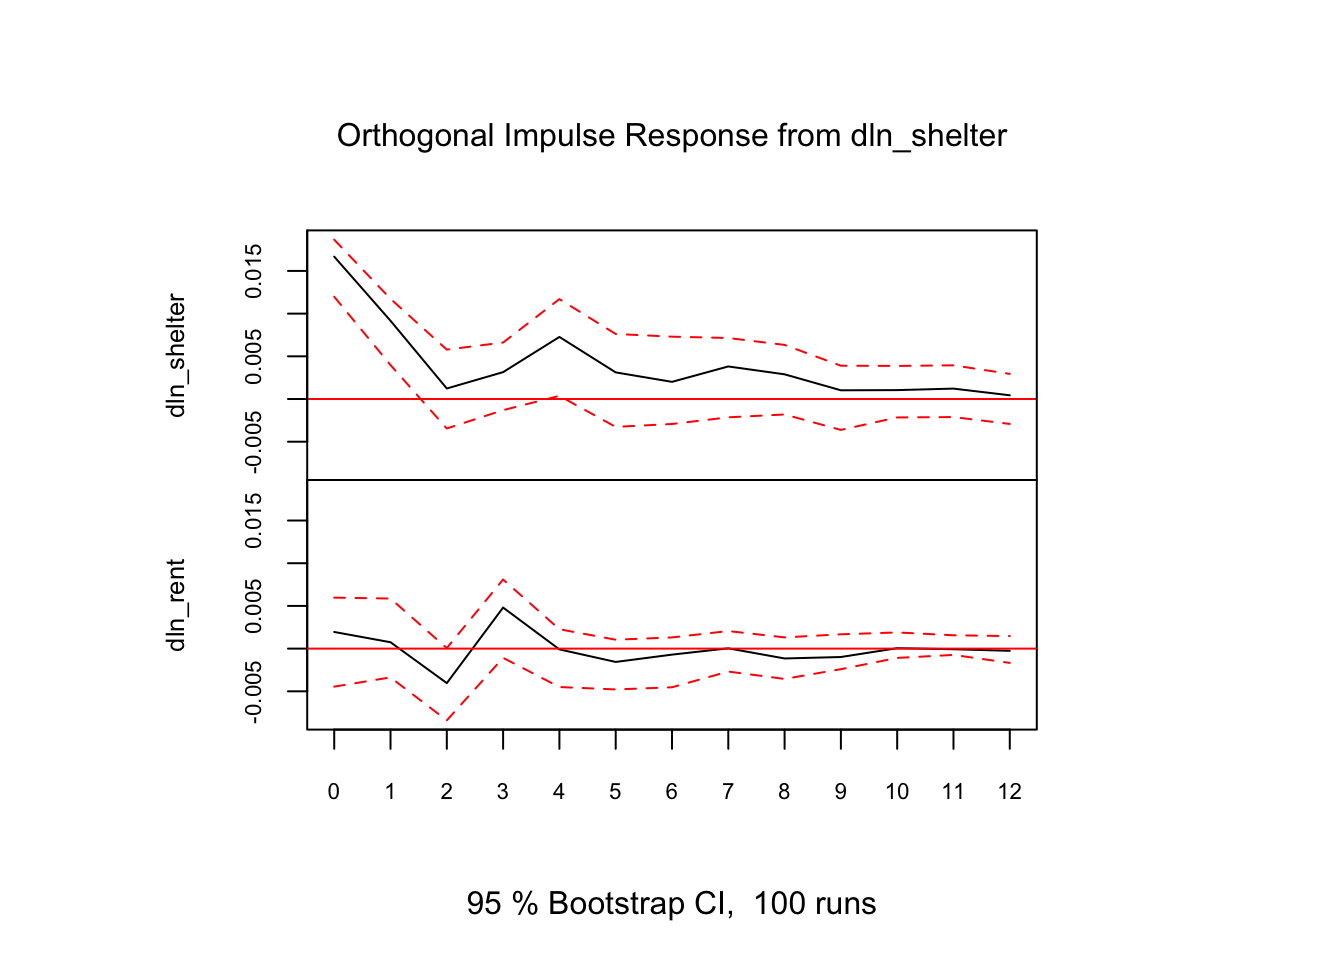
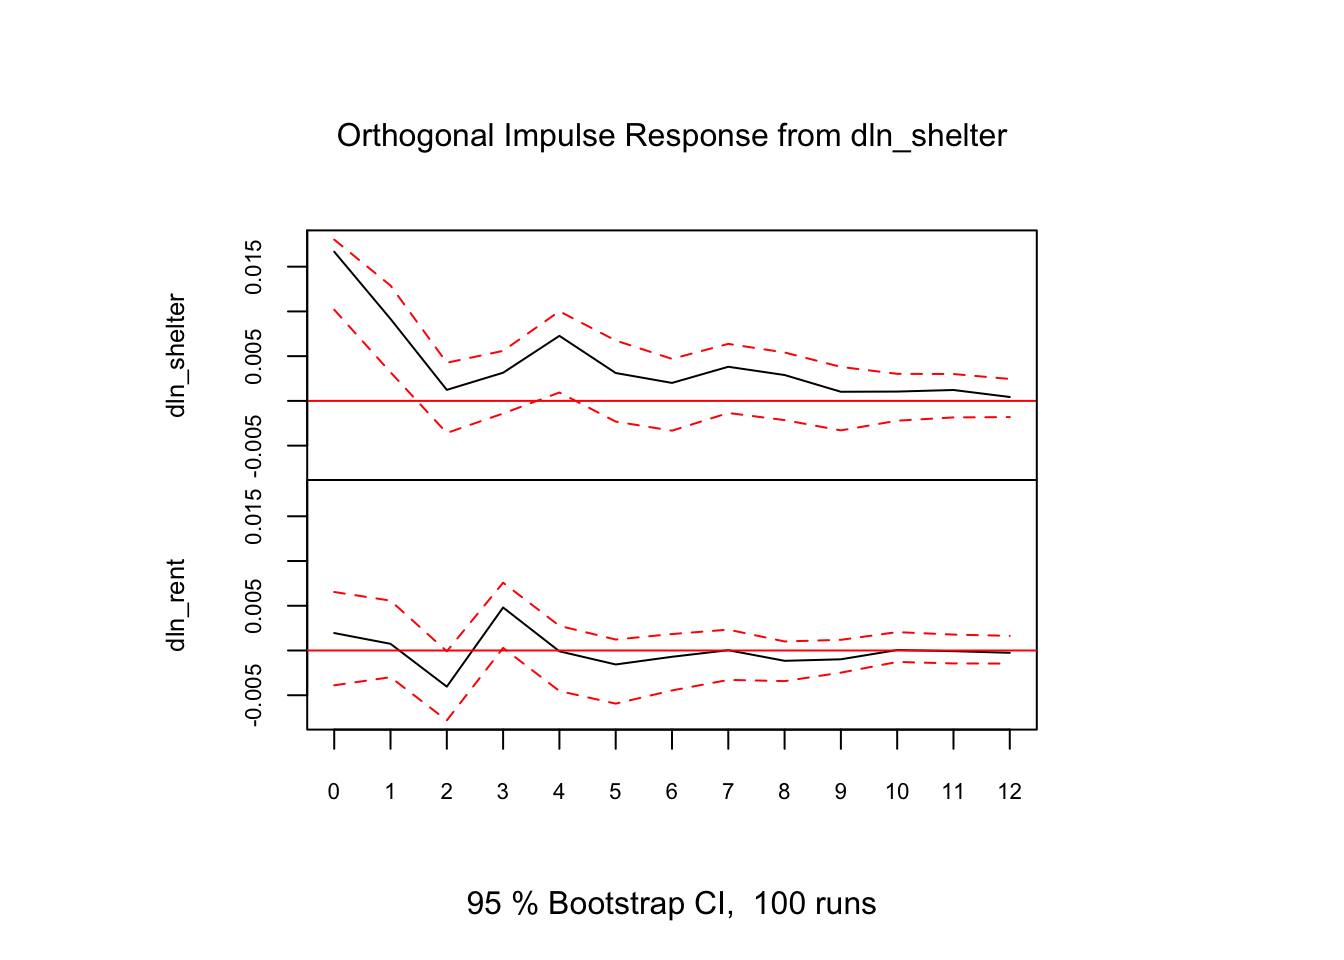
updates

diff --git a/docs/projects/Refugees_EU.html b/docs/projects/Refugees_EU.html
@@ -7,7 +7,7 @@
 <meta name="viewport" content="width=device-width, initial-scale=1.0, user-scalable=yes">
 
 <meta name="author" content="Group Members Ahmed Albarqi Muhammad Usman Anwar Goraya Sarthak Gulati">
-<meta name="dcterms.date" content="2026-03-22">
+<meta name="dcterms.date" content="2026-05-15">
 
 <title>The Impact of Refugees on House Prices across EU Countries</title>
 <style>
@@ -188,7 +188,7 @@ window.Quarto = {
     <div>
     <div class="quarto-title-meta-heading">Published</div>
     <div class="quarto-title-meta-contents">
-      <p class="date">March 22, 2026</p>
+      <p class="date">May 15, 2026</p>
     </div>
   </div>
   
@@ -700,8 +700,8 @@ Figure&nbsp;1
 
     <script>
 
-      function styleCell_rgcn3rd01b4eauo8c31o(i, j, css_id) {
-          var table = document.getElementById("tinytable_rgcn3rd01b4eauo8c31o");
+      function styleCell_e1w2kuhl4mi5hhzppak7(i, j, css_id) {
+          var table = document.getElementById("tinytable_e1w2kuhl4mi5hhzppak7");
           var cell = table.querySelector(`[data-row="${i}"][data-col="${j}"]`);
           if (cell) {
               console.log(`Styling cell at (${i}, ${j}) with class ${css_id}`);
@@ -710,8 +710,8 @@ Figure&nbsp;1
               console.warn(`Cell at (${i}, ${j}) not found.`);
           }
       }
-      function spanCell_rgcn3rd01b4eauo8c31o(i, j, rowspan, colspan) {
-        var table = document.getElementById("tinytable_rgcn3rd01b4eauo8c31o");
+      function spanCell_e1w2kuhl4mi5hhzppak7(i, j, rowspan, colspan) {
+        var table = document.getElementById("tinytable_e1w2kuhl4mi5hhzppak7");
         const targetCell = table.querySelector(`[data-row="${i}"][data-col="${j}"]`);
         if (!targetCell) {
           console.warn(`Cell at (${i}, ${j}) not found.`);
@@ -742,20 +742,20 @@ Figure&nbsp;1
       window.addEventListener('load', function () {
           var cellsToStyle = [
             // tinytable style arrays after
-          { positions: [ { i: '9', j: 1 }, { i: '9', j: 2 },  ], css_id: 'tinytable_css_6yxkj3x2dklwmubop4kh',}, 
-          { positions: [ { i: '6', j: 2 }, { i: '6', j: 1 },  ], css_id: 'tinytable_css_2fkzzycw1geamr9wc5e1',}, 
-          { positions: [ { i: '1', j: 1 }, { i: '3', j: 1 }, { i: '4', j: 1 }, { i: '5', j: 1 }, { i: '2', j: 1 }, { i: '7', j: 1 }, { i: '8', j: 1 }, { i: '3', j: 2 }, { i: '4', j: 2 }, { i: '1', j: 2 }, { i: '2', j: 2 }, { i: '7', j: 2 }, { i: '8', j: 2 }, { i: '5', j: 2 },  ], css_id: 'tinytable_css_tmy9x6x83ypa8obi3dkc',}, 
-          { positions: [ { i: '0', j: 1 }, { i: '0', j: 2 },  ], css_id: 'tinytable_css_nsge8as49y0ko3gh6aqc',}, 
-          { positions: [ { i: '9', j: 0 },  ], css_id: 'tinytable_css_lo5ehzi9v293cfz3gvwo',}, 
-          { positions: [ { i: '6', j: 0 },  ], css_id: 'tinytable_css_ijrlkatyavwtwzdj83c7',}, 
-          { positions: [ { i: '1', j: 0 }, { i: '2', j: 0 }, { i: '3', j: 0 }, { i: '4', j: 0 }, { i: '5', j: 0 }, { i: '7', j: 0 }, { i: '8', j: 0 },  ], css_id: 'tinytable_css_6fhno3y1qrzvqpahgv70',}, 
-          { positions: [ { i: '0', j: 0 },  ], css_id: 'tinytable_css_6ovap9flgkck6c7e1ryz',}, 
+          { positions: [ { i: '9', j: 1 }, { i: '9', j: 2 },  ], css_id: 'tinytable_css_ezkii8dbnqjqexz5ruy6',}, 
+          { positions: [ { i: '6', j: 2 }, { i: '6', j: 1 },  ], css_id: 'tinytable_css_d2lafuugqsu1uhb284ik',}, 
+          { positions: [ { i: '1', j: 1 }, { i: '3', j: 1 }, { i: '4', j: 1 }, { i: '5', j: 1 }, { i: '2', j: 1 }, { i: '7', j: 1 }, { i: '8', j: 1 }, { i: '3', j: 2 }, { i: '4', j: 2 }, { i: '1', j: 2 }, { i: '2', j: 2 }, { i: '7', j: 2 }, { i: '8', j: 2 }, { i: '5', j: 2 },  ], css_id: 'tinytable_css_r0ah9v6677qfucq8taag',}, 
+          { positions: [ { i: '0', j: 1 }, { i: '0', j: 2 },  ], css_id: 'tinytable_css_08s6btfl2drbd3bswdrd',}, 
+          { positions: [ { i: '9', j: 0 },  ], css_id: 'tinytable_css_hwjj0viexgyv3ciasqxv',}, 
+          { positions: [ { i: '6', j: 0 },  ], css_id: 'tinytable_css_xvo9gmxjch6reovzjq09',}, 
+          { positions: [ { i: '1', j: 0 }, { i: '2', j: 0 }, { i: '3', j: 0 }, { i: '4', j: 0 }, { i: '5', j: 0 }, { i: '7', j: 0 }, { i: '8', j: 0 },  ], css_id: 'tinytable_css_6nbnkd1dsr7vu8pxgvf6',}, 
+          { positions: [ { i: '0', j: 0 },  ], css_id: 'tinytable_css_mk9s6ddxc9x8xat8l434',}, 
           ];
 
           // Loop over the arrays to style the cells
           cellsToStyle.forEach(function (group) {
               group.positions.forEach(function (cell) {
-                  styleCell_rgcn3rd01b4eauo8c31o(cell.i, cell.j, group.css_id);
+                  styleCell_e1w2kuhl4mi5hhzppak7(cell.i, cell.j, group.css_id);
               });
           });
       });
@@ -763,17 +763,17 @@ Figure&nbsp;1
 
     <style>
       /* tinytable css entries after */
-      .table td.tinytable_css_6yxkj3x2dklwmubop4kh, .table th.tinytable_css_6yxkj3x2dklwmubop4kh { text-align: center; border-bottom: solid #d3d8dc 0.1em; }
-      .table td.tinytable_css_2fkzzycw1geamr9wc5e1, .table th.tinytable_css_2fkzzycw1geamr9wc5e1 { text-align: center; border-bottom: solid black 0.05em; }
-      .table td.tinytable_css_tmy9x6x83ypa8obi3dkc, .table th.tinytable_css_tmy9x6x83ypa8obi3dkc { text-align: center; }
-      .table td.tinytable_css_nsge8as49y0ko3gh6aqc, .table th.tinytable_css_nsge8as49y0ko3gh6aqc { text-align: center; border-top: solid #d3d8dc 0.1em; border-bottom: solid #d3d8dc 0.05em; }
-      .table td.tinytable_css_lo5ehzi9v293cfz3gvwo, .table th.tinytable_css_lo5ehzi9v293cfz3gvwo { text-align: left; border-bottom: solid #d3d8dc 0.1em; }
-      .table td.tinytable_css_ijrlkatyavwtwzdj83c7, .table th.tinytable_css_ijrlkatyavwtwzdj83c7 { text-align: left; border-bottom: solid black 0.05em; }
-      .table td.tinytable_css_6fhno3y1qrzvqpahgv70, .table th.tinytable_css_6fhno3y1qrzvqpahgv70 { text-align: left; }
-      .table td.tinytable_css_6ovap9flgkck6c7e1ryz, .table th.tinytable_css_6ovap9flgkck6c7e1ryz { text-align: left; border-top: solid #d3d8dc 0.1em; border-bottom: solid #d3d8dc 0.05em; }
+      .table td.tinytable_css_ezkii8dbnqjqexz5ruy6, .table th.tinytable_css_ezkii8dbnqjqexz5ruy6 { text-align: center; border-bottom: solid #d3d8dc 0.1em; }
+      .table td.tinytable_css_d2lafuugqsu1uhb284ik, .table th.tinytable_css_d2lafuugqsu1uhb284ik { text-align: center; border-bottom: solid black 0.05em; }
+      .table td.tinytable_css_r0ah9v6677qfucq8taag, .table th.tinytable_css_r0ah9v6677qfucq8taag { text-align: center; }
+      .table td.tinytable_css_08s6btfl2drbd3bswdrd, .table th.tinytable_css_08s6btfl2drbd3bswdrd { text-align: center; border-top: solid #d3d8dc 0.1em; border-bottom: solid #d3d8dc 0.05em; }
+      .table td.tinytable_css_hwjj0viexgyv3ciasqxv, .table th.tinytable_css_hwjj0viexgyv3ciasqxv { text-align: left; border-bottom: solid #d3d8dc 0.1em; }
+      .table td.tinytable_css_xvo9gmxjch6reovzjq09, .table th.tinytable_css_xvo9gmxjch6reovzjq09 { text-align: left; border-bottom: solid black 0.05em; }
+      .table td.tinytable_css_6nbnkd1dsr7vu8pxgvf6, .table th.tinytable_css_6nbnkd1dsr7vu8pxgvf6 { text-align: left; }
+      .table td.tinytable_css_mk9s6ddxc9x8xat8l434, .table th.tinytable_css_mk9s6ddxc9x8xat8l434 { text-align: left; border-top: solid #d3d8dc 0.1em; border-bottom: solid #d3d8dc 0.05em; }
     </style>
     <div class="container">
-      <table class="table table-borderless" id="tinytable_rgcn3rd01b4eauo8c31o" style="width: auto; margin-left: auto; margin-right: auto;" data-quarto-disable-processing="true">
+      <table class="table table-borderless" id="tinytable_e1w2kuhl4mi5hhzppak7" style="width: auto; margin-left: auto; margin-right: auto;" data-quarto-disable-processing="true">
         <thead>
         
               <tr>

diff --git a/docs/visualizations.html b/docs/visualizations.html
@@ -155,9 +155,20 @@ ul.task-list li input[type="checkbox"] {
 </header>
 
 
-<p>Effective policy research depends on clear and interpretable data visualization. Below are selected figures from my work, spanning spatial analysis, time-series modeling, and comparative policy insights.</p>
+<p>Effective policy research depends on clear and interpretable data visualization. Below are selected figures from my work, spanning spatial analysis, time-series modeling, clustering and comparative policy insights.</p>
 <hr>
 <div class="viz-grid">
+<div class="viz-card">
+<p><a href="assets/images/visualizations/mds_embedding_k10.png" class="viz-link" target="_blank"><img src="assets/images/visualizations/mds_embedding_k10.png" class="viz-img img-fluid"></a> ::: {.viz-body} ### PAM Clustering: K=10 Victim Profiles (MDS Embedding) ::: {.viz-caption} MDS embedding of PAM clustering results using Gower distance, identifying 10 distinct forced labour victim profiles across demographic and socioeconomic dimensions.</p>
+</div>
+<div class="viz-tags">
+<p><span class="tag">Clustering</span> <span class="tag">Forced Labour</span> <span class="tag">MDS</span></p>
+</div>
+<div class="viz-actions">
+<p><a href="assets/images/visualizations/mds_embedding_k10.png" class="btn btn-outline-primary" target="_blank">Open</a></p>
+</div>
+</div>
+<p>:::</p>
 <div class="viz-card">
 <p><a href="assets/images/visualizations/Absentiesm_by_county.png" class="viz-link" target="_blank"><img src="assets/images/visualizations/Absentiesm_by_county.png" class="viz-img img-fluid"></a></p>
 <section id="average-chronic-absenteeism-by-county-california" class="level3 viz-body">
@@ -218,7 +229,7 @@ ul.task-list li input[type="checkbox"] {
 </div>
 </section>
 </div>
-</div>
+<p>:::</p>
 
 
 

diff --git a/docs/Projects_pdf.html b/docs/Projects_pdf.html
@@ -7,7 +7,7 @@
 <meta name="viewport" content="width=device-width, initial-scale=1.0, user-scalable=yes">
 
 <meta name="author" content="Ahmed Albarqi">
-<meta name="dcterms.date" content="2026-03-22">
+<meta name="dcterms.date" content="2026-05-15">
 
 <title>Selected Research Projects</title>
 <style>
@@ -157,7 +157,7 @@ ul.task-list li input[type="checkbox"] {
     <div>
     <div class="quarto-title-meta-heading">Published</div>
     <div class="quarto-title-meta-contents">
-      <p class="date">March 22, 2026</p>
+      <p class="date">May 15, 2026</p>
     </div>
   </div>
   

diff --git a/docs/projects/fert_rate.html b/docs/projects/fert_rate.html
@@ -7,7 +7,7 @@
 <meta name="viewport" content="width=device-width, initial-scale=1.0, user-scalable=yes">
 
 <meta name="author" content="Ahmed Albarqi">
-<meta name="dcterms.date" content="2026-03-22">
+<meta name="dcterms.date" content="2026-05-15">
 
 <title>Report “Fertility Rate Forecasting for Saudi Arabia”</title>
 <style>
@@ -186,7 +186,7 @@ window.Quarto = {
     <div>
     <div class="quarto-title-meta-heading">Published</div>
     <div class="quarto-title-meta-contents">
-      <p class="date">March 22, 2026</p>
+      <p class="date">May 15, 2026</p>
     </div>
   </div>
   

diff --git a/docs/projects/rent_shelter_var.html b/docs/projects/rent_shelter_var.html
@@ -7,7 +7,7 @@
 <meta name="viewport" content="width=device-width, initial-scale=1.0, user-scalable=yes">
 
 <meta name="author" content="Studnet Ahmed Albarqi">
-<meta name="dcterms.date" content="2026-03-22">
+<meta name="dcterms.date" content="2026-05-15">
 
 <title>Report “Vector Autoregressive (VAR) Modeling for Shelter Population &amp; Median rent asked in NYC”</title>
 <style>
@@ -188,7 +188,7 @@ window.Quarto = {
     <div>
     <div class="quarto-title-meta-heading">Published</div>
     <div class="quarto-title-meta-contents">
-      <p class="date">March 22, 2026</p>
+      <p class="date">May 15, 2026</p>
     </div>
   </div>
   